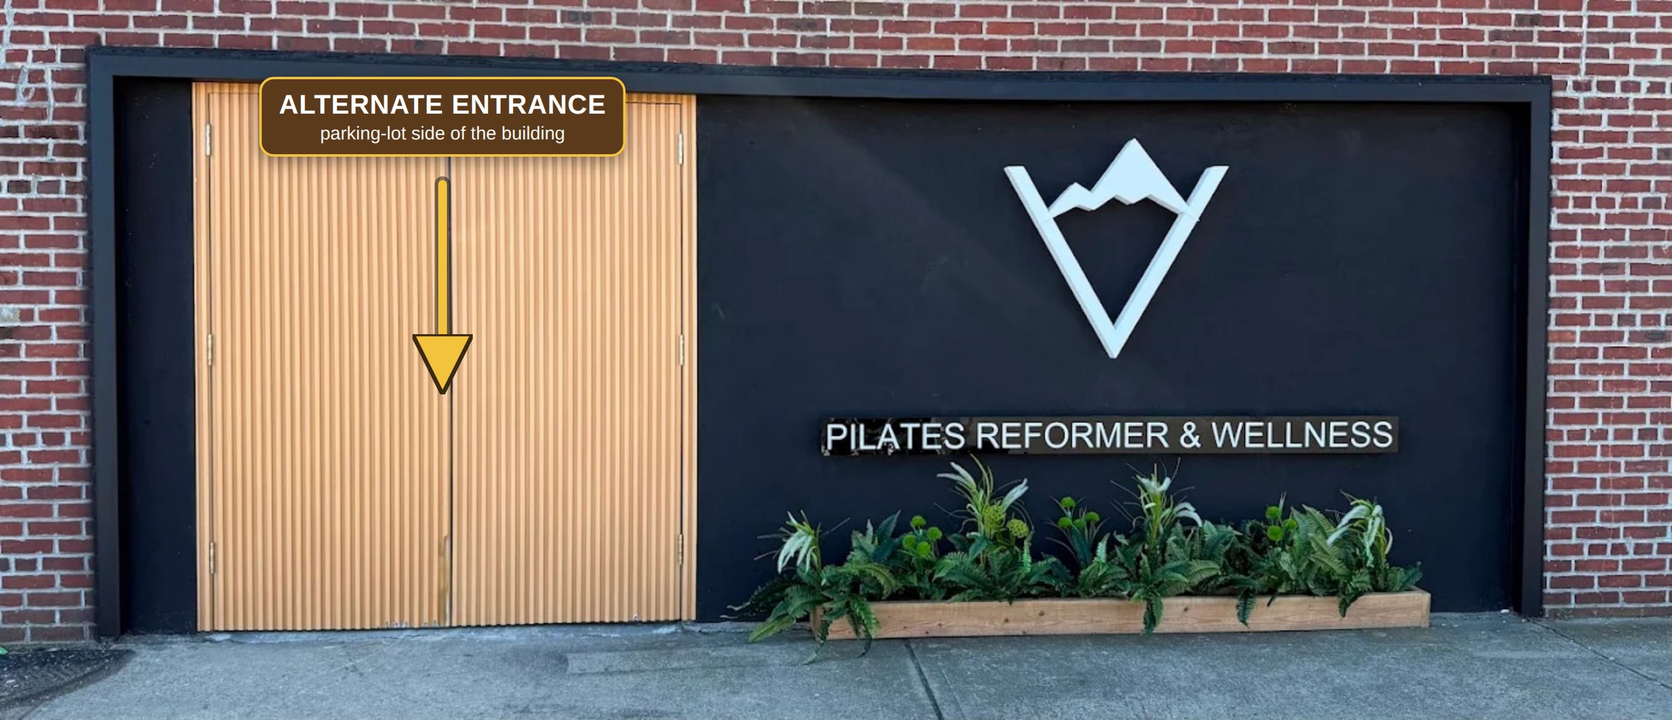
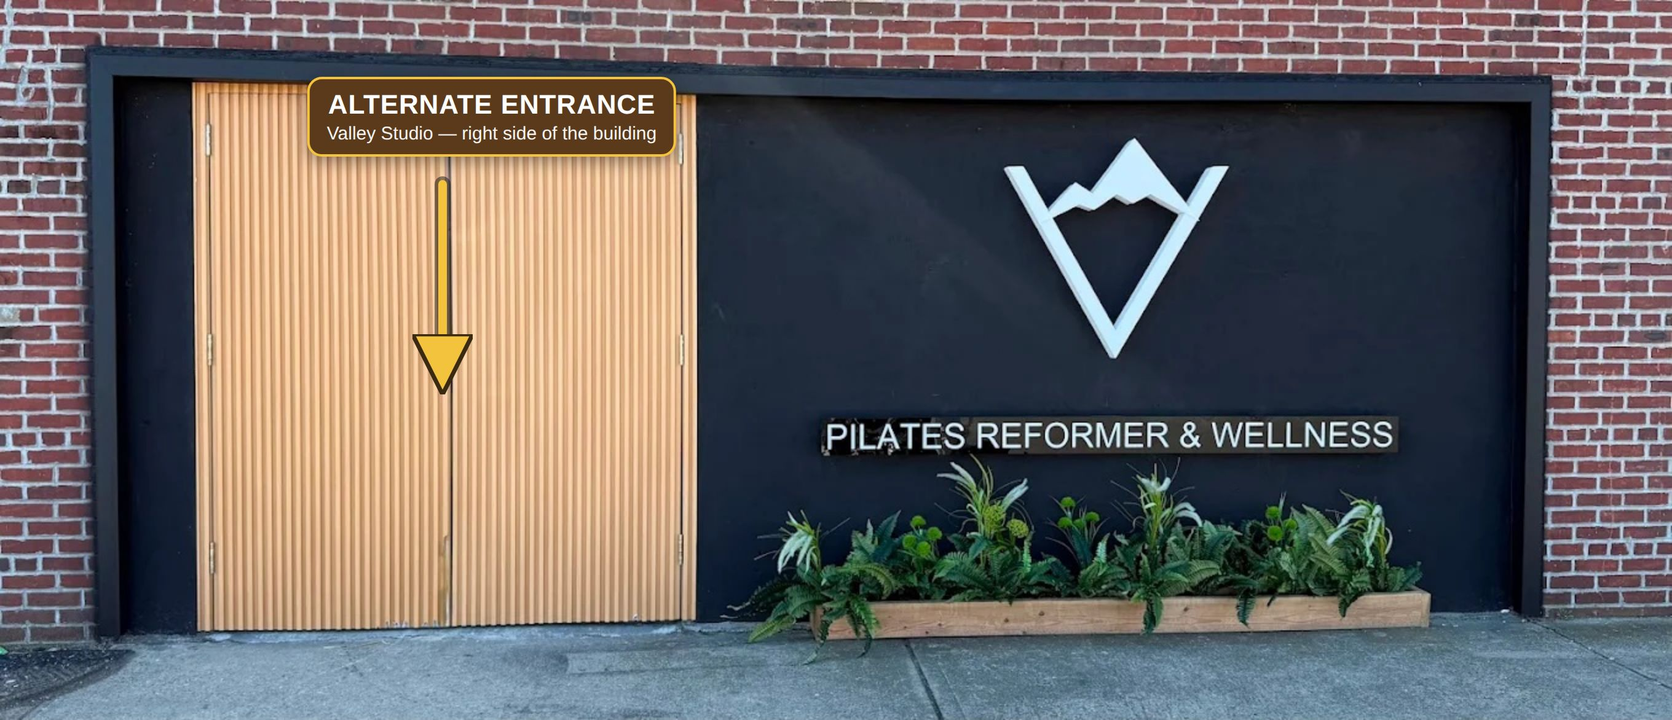
Add roster archive for unpaid signups; fix Valley Studio alt-entrance directions
Archive:
- New "🗄 Archive" button on every reformer roster row moves someone who
  started signing up but never paid off the active roster and out of the
  paid/registered counts, without deleting them.
- New "🗄 Archived — didn't pay" section (all events, collapsed by default)
  with Unarchive and Remove; archived rows are excluded from every event
  section and its counts.
- Backed by REFORMER_ARCHIVE.sql: adds an `archived` column and an owner-only
  reformer_archive(pass, rid, val) RPC, matching the existing reformer_* RPCs.

Directions fixes:
- Alternate entrance is Valley Studio's own entrance on the RIGHT side of the
  building (not the parking-lot side); updated wayfinding-4-alt.jpg label plus
  the on-site slideshow caption and the day-of email caption.
- Added a "before you enter the studio" note (leave shoes outside; bring
  belongings in — cubbies inside) to the on-site directions and the day-of email.

Claude-Session: https://claude.ai/code/session_01C5C3S2hPFNYWpceXrqPaqV

Changed region(s): [[0.125, 0.0922, 0.4062, 0.2457]]

diff --git a/index.html b/index.html
@@ -5986,13 +5986,14 @@ Can't wait to move and connect with you!</textarea>
             <figure class="rf-wf-slide"><img src="wayfinding-1-enter.jpg" alt="Front entrance of Cherry Valley Sports" loading="lazy"><figcaption class="rf-wf-cap"><span>1</span>Enter here &mdash; Cherry Valley Sports front doors</figcaption></figure>
             <figure class="rf-wf-slide"><img src="wayfinding-2-walk.jpg" alt="Turf hallway &mdash; keep walking then make a right" loading="lazy"><figcaption class="rf-wf-cap"><span>2</span>Keep walking down the turf, then make a right &mdash; <em>not</em> through the glass doors</figcaption></figure>
             <figure class="rf-wf-slide"><img src="wayfinding-3-studio.jpg" alt="Main room with Valley Studio at the far end" loading="lazy"><figcaption class="rf-wf-cap"><span>3</span>Valley Studio is the door at the very end (restrooms on your right)</figcaption></figure>
-            <figure class="rf-wf-slide"><img src="wayfinding-4-alt.jpg" alt="Alternate parking-lot entrance" loading="lazy"><figcaption class="rf-wf-cap"><span>4</span>Or use the alternate entrance on the parking-lot side</figcaption></figure>
+            <figure class="rf-wf-slide"><img src="wayfinding-4-alt.jpg" alt="Alternate entrance — Valley Studio, right side of the building" loading="lazy"><figcaption class="rf-wf-cap"><span>4</span>Or use Valley Studio&rsquo;s own entrance &mdash; right side of the building</figcaption></figure>
           </div>
           <button type="button" class="rf-wf-nav rf-wf-prev" aria-label="Previous photo">&#8249;</button>
           <button type="button" class="rf-wf-nav rf-wf-next" aria-label="Next photo">&#8250;</button>
         </div>
         <div class="rf-wf-dots"></div>
       </div>
+      <p style="margin-top:.5rem;">&#129355; <strong>Before you enter the studio:</strong> please leave your shoes outside, and bring all your personal belongings in with you &mdash; there are cubbies inside to store them.</p>
       <p><a class="rf-map" href="https://maps.google.com/?q=45+Cherry+Valley+Ave+West+Hempstead+NY+11552" target="_blank" rel="noopener noreferrer">Open in Google Maps &rarr;</a></p>
       <p style="color:var(--text-muted);">Street parking is available nearby.</p>
     </div>
@@ -6413,13 +6414,14 @@ document.addEventListener('DOMContentLoaded', function(){
             <figure class="rf-wf-slide"><img src="wayfinding-1-enter.jpg" alt="Front entrance of Cherry Valley Sports" loading="lazy"><figcaption class="rf-wf-cap"><span>1</span>Enter here &mdash; Cherry Valley Sports front doors</figcaption></figure>
             <figure class="rf-wf-slide"><img src="wayfinding-2-walk.jpg" alt="Turf hallway &mdash; keep walking then make a right" loading="lazy"><figcaption class="rf-wf-cap"><span>2</span>Keep walking down the turf, then make a right &mdash; <em>not</em> through the glass doors</figcaption></figure>
             <figure class="rf-wf-slide"><img src="wayfinding-3-studio.jpg" alt="Main room with Valley Studio at the far end" loading="lazy"><figcaption class="rf-wf-cap"><span>3</span>Valley Studio is the door at the very end (restrooms on your right)</figcaption></figure>
-            <figure class="rf-wf-slide"><img src="wayfinding-4-alt.jpg" alt="Alternate parking-lot entrance" loading="lazy"><figcaption class="rf-wf-cap"><span>4</span>Or use the alternate entrance on the parking-lot side</figcaption></figure>
+            <figure class="rf-wf-slide"><img src="wayfinding-4-alt.jpg" alt="Alternate entrance — Valley Studio, right side of the building" loading="lazy"><figcaption class="rf-wf-cap"><span>4</span>Or use Valley Studio&rsquo;s own entrance &mdash; right side of the building</figcaption></figure>
           </div>
           <button type="button" class="rf-wf-nav rf-wf-prev" aria-label="Previous photo">&#8249;</button>
           <button type="button" class="rf-wf-nav rf-wf-next" aria-label="Next photo">&#8250;</button>
         </div>
         <div class="rf-wf-dots"></div>
       </div>
+      <p style="margin-top:.5rem;">&#129355; <strong>Before you enter the studio:</strong> please leave your shoes outside, and bring all your personal belongings in with you &mdash; there are cubbies inside to store them.</p>
       <p><a class="rf-map" href="https://maps.google.com/?q=45+Cherry+Valley+Ave+West+Hempstead+NY+11552" target="_blank" rel="noopener noreferrer">Open in Google Maps &rarr;</a></p>
     </div>
 
@@ -6655,13 +6657,14 @@ document.addEventListener('DOMContentLoaded', function(){
             <figure class="rf-wf-slide"><img src="wayfinding-1-enter.jpg" alt="Front entrance of Cherry Valley Sports" loading="lazy"><figcaption class="rf-wf-cap"><span>1</span>Enter here &mdash; Cherry Valley Sports front doors</figcaption></figure>
             <figure class="rf-wf-slide"><img src="wayfinding-2-walk.jpg" alt="Turf hallway &mdash; keep walking then make a right" loading="lazy"><figcaption class="rf-wf-cap"><span>2</span>Keep walking down the turf, then make a right &mdash; <em>not</em> through the glass doors</figcaption></figure>
             <figure class="rf-wf-slide"><img src="wayfinding-3-studio.jpg" alt="Main room with Valley Studio at the far end" loading="lazy"><figcaption class="rf-wf-cap"><span>3</span>Valley Studio is the door at the very end (restrooms on your right)</figcaption></figure>
-            <figure class="rf-wf-slide"><img src="wayfinding-4-alt.jpg" alt="Alternate parking-lot entrance" loading="lazy"><figcaption class="rf-wf-cap"><span>4</span>Or use the alternate entrance on the parking-lot side</figcaption></figure>
+            <figure class="rf-wf-slide"><img src="wayfinding-4-alt.jpg" alt="Alternate entrance — Valley Studio, right side of the building" loading="lazy"><figcaption class="rf-wf-cap"><span>4</span>Or use Valley Studio&rsquo;s own entrance &mdash; right side of the building</figcaption></figure>
           </div>
           <button type="button" class="rf-wf-nav rf-wf-prev" aria-label="Previous photo">&#8249;</button>
           <button type="button" class="rf-wf-nav rf-wf-next" aria-label="Next photo">&#8250;</button>
         </div>
         <div class="rf-wf-dots"></div>
       </div>
+      <p style="margin-top:.5rem;">&#129355; <strong>Before you enter the studio:</strong> please leave your shoes outside, and bring all your personal belongings in with you &mdash; there are cubbies inside to store them.</p>
       <p><a class="rf-map" href="https://maps.google.com/?q=45+Cherry+Valley+Ave+West+Hempstead+NY+11552" target="_blank" rel="noopener noreferrer">Open in Google Maps &rarr;</a></p>
     </div>
 
@@ -6850,13 +6853,14 @@ document.addEventListener('DOMContentLoaded', function(){
             <figure class="rf-wf-slide"><img src="wayfinding-1-enter.jpg" alt="Front entrance of Cherry Valley Sports" loading="lazy"><figcaption class="rf-wf-cap"><span>1</span>Enter here &mdash; Cherry Valley Sports front doors</figcaption></figure>
             <figure class="rf-wf-slide"><img src="wayfinding-2-walk.jpg" alt="Turf hallway &mdash; keep walking then make a right" loading="lazy"><figcaption class="rf-wf-cap"><span>2</span>Keep walking down the turf, then make a right &mdash; <em>not</em> through the glass doors</figcaption></figure>
             <figure class="rf-wf-slide"><img src="wayfinding-3-studio.jpg" alt="Main room with Valley Studio at the far end" loading="lazy"><figcaption class="rf-wf-cap"><span>3</span>Valley Studio is the door at the very end (restrooms on your right)</figcaption></figure>
-            <figure class="rf-wf-slide"><img src="wayfinding-4-alt.jpg" alt="Alternate parking-lot entrance" loading="lazy"><figcaption class="rf-wf-cap"><span>4</span>Or use the alternate entrance on the parking-lot side</figcaption></figure>
+            <figure class="rf-wf-slide"><img src="wayfinding-4-alt.jpg" alt="Alternate entrance — Valley Studio, right side of the building" loading="lazy"><figcaption class="rf-wf-cap"><span>4</span>Or use Valley Studio&rsquo;s own entrance &mdash; right side of the building</figcaption></figure>
           </div>
           <button type="button" class="rf-wf-nav rf-wf-prev" aria-label="Previous photo">&#8249;</button>
           <button type="button" class="rf-wf-nav rf-wf-next" aria-label="Next photo">&#8250;</button>
         </div>
         <div class="rf-wf-dots"></div>
       </div>
+      <p style="margin-top:.5rem;">&#129355; <strong>Before you enter the studio:</strong> please leave your shoes outside, and bring all your personal belongings in with you &mdash; there are cubbies inside to store them.</p>
       <p><a class="rf-map" href="https://maps.google.com/?q=45+Cherry+Valley+Ave+West+Hempstead+NY+11552" target="_blank" rel="noopener noreferrer">Open in Google Maps &rarr;</a></p>
     </div>
 
@@ -9816,6 +9820,7 @@ document.addEventListener('DOMContentLoaded', function() {
     var bloomContainer    = document.createElement('div'); bloomContainer.id    = 'admin-bloom-container';
     var riddimContainer   = document.createElement('div'); riddimContainer.id   = 'admin-riddim-interest-container';
     var bagContainer      = document.createElement('div'); bagContainer.id      = 'admin-bag-reserve-container';
+    var archivedContainer = document.createElement('div'); archivedContainer.id = 'admin-archived-container';
     var corpContainer     = document.createElement('div'); corpContainer.id     = 'admin-corp-container';
     // Tag each event section with its date so the filter can sort past vs upcoming.
     bloomContainer.setAttribute('data-event-date', '2026-12-13');
@@ -9852,6 +9857,7 @@ document.addEventListener('DOMContentLoaded', function() {
     body.appendChild(crContainer);         // Create & Recharge — Aug 15
     body.appendChild(mcContainer);         // Mat & Chat — Aug 1
     body.appendChild(sessionsContainer);   // Pilates x Niara — Jun 19
+    body.appendChild(archivedContainer);   // Archived — didn't pay (all events), always shown
     body.appendChild(corpContainer);       // Partner With Us — no date, always shown
 
     // Apply / persist the event filter (any element tagged with data-event-date —
@@ -9874,6 +9880,7 @@ document.addEventListener('DOMContentLoaded', function() {
     if (typeof renderReformerTbSection === 'function') renderReformerTbSection(turkeyContainer);
     if (typeof renderReformerTb28Section === 'function') renderReformerTb28Section(turkey28Container);
     if (typeof renderReformerHwSection === 'function') renderReformerHwSection(halloweenContainer);
+    if (typeof renderReformerArchivedSection === 'function') renderReformerArchivedSection(archivedContainer);
     if (typeof renderBloomingSection === 'function') renderBloomingSection(bloomContainer);
     if (typeof renderRiddimInterestSection === 'function') renderRiddimInterestSection(riddimContainer);
     if (typeof renderBagReserveSection === 'function') renderBagReserveSection(bagContainer);
@@ -12851,7 +12858,7 @@ document.addEventListener('DOMContentLoaded', function() {
     return '';
   }
   window.markFoundingSent = function(email,ev,sess){ _foundingSent[foundingKey(email,ev,sess)] = true; try { localStorage.setItem('auric_founding_sent', JSON.stringify(_foundingSent)); } catch(e){} if(typeof rfRefresh==='function') rfRefresh(); };
-  function rfRefresh(){ if(rfAdminContainer) renderReformerSection(rfAdminContainer); if(rfBkAdminContainer) renderReformerBkSection(rfBkAdminContainer); if(rfTbAdminContainer) renderReformerTbSection(rfTbAdminContainer); if(rfTb28AdminContainer) renderReformerTb28Section(rfTb28AdminContainer); if(rfHwAdminContainer) renderReformerHwSection(rfHwAdminContainer); populateReturningGuests(); }
+  function rfRefresh(){ if(rfAdminContainer) renderReformerSection(rfAdminContainer); if(rfBkAdminContainer) renderReformerBkSection(rfBkAdminContainer); if(rfTbAdminContainer) renderReformerTbSection(rfTbAdminContainer); if(rfTb28AdminContainer) renderReformerTb28Section(rfTb28AdminContainer); if(rfHwAdminContainer) renderReformerHwSection(rfHwAdminContainer); if(rfArchivedContainer) renderReformerArchivedSection(rfArchivedContainer); populateReturningGuests(); }
 
   // Fill the "Returning guest" picker in Manual Add with everyone who has
   // attended a reformer class (deduped by email). Picking one auto-fills the
@@ -12972,7 +12979,7 @@ document.addEventListener('DOMContentLoaded', function() {
       rfRosterById = {};
       rows.forEach(function(r){ rfRosterById[r.id] = r; }); // keep ALL rows addressable (Valley + Brooklyn share admin actions)
       var display = rows.filter(function(r){ return r.event !== 'riddim-kompa-brooklyn-2026-09-26' && r.event !== 'turkey-burn-2026-11-21'; }); // Valley section: exclude Brooklyn + Turkey Burn
-      display = display.filter(function(r){ return r.type!=='waitlist'; }); // waitlisters shown separately, never counted as registered
+      display = display.filter(function(r){ return r.type!=='waitlist' && !r.archived; }); // waitlisters + archived (didn't pay) shown separately, never counted as registered
       var paid  = display.filter(function(r){ return r.is_paid; }).length;
       var paid1 = display.filter(function(r){ return r.session==='1pm' && r.is_paid; }).length;
       var paid2 = display.filter(function(r){ return r.session==='2pm' && r.is_paid; }).length;
@@ -13013,10 +13020,11 @@ document.addEventListener('DOMContentLoaded', function() {
         var timeBtn = timeOpt('1pm','1 PM') + timeOpt('2pm','2 PM') + timeOpt('3pm','3 PM');
         var editBtn = btn('rfAdminEdit('+id+')','#eef4fb','#b5d4f4','#185fa5','✏\u{FE0F} Edit');
         var removeBtn = btn('rfAdminRemove('+id+')','#fdecea','#f5c6c2','var(--red)','\u{1F5D1} Remove');
+        var archiveBtn = btn('rfAdminArchive('+id+')','#eceae4','#d3ccbd','#6b6357','\u{1F5C4}\u{FE0F} Archive');
         var moveBtn = btn('rfAdminMove('+id+')','#f0ecf9','#c9bce9','#5b3a8a','\u{21C4} Move event');
         item.innerHTML='<div style="flex:1;min-width:0;"><span class="aname">'+escapeHTML(rec.name||'')+'</span> '+badge+fbBadge(rec)+'<br><span class="aemail">'+escapeHTML(rec.email||'')+'</span>'+ref+sig+health+'</div>'+
           '<div style="text-align:right"><span style="font-size:.75rem;color:var(--text-muted);">'+escapeHTML(rec.session_label||rec.session||'')+'</span><br><span style="font-size:.7rem;color:var(--text-muted);">'+escapeHTML(when)+'</span>'+
-          '<br><div style="display:flex;gap:.3rem;justify-content:flex-end;margin-top:.3rem;flex-wrap:wrap;">'+confirmBtn+paidBtn+timeBtn+waiverBtn+clearHealthBtn+(rec.is_paid?'':btn('rfSendPayReminder('+id+')','#fff4e5','#f0c890','#a86617','⏳ Reminder'))+editBtn+moveBtn+removeBtn+'</div></div>';
+          '<br><div style="display:flex;gap:.3rem;justify-content:flex-end;margin-top:.3rem;flex-wrap:wrap;">'+confirmBtn+paidBtn+timeBtn+waiverBtn+clearHealthBtn+(rec.is_paid?'':btn('rfSendPayReminder('+id+')','#fff4e5','#f0c890','#a86617','⏳ Reminder'))+editBtn+moveBtn+archiveBtn+removeBtn+'</div></div>';
         (typeof _curSessBlock!=='undefined'&&_curSessBlock?_curSessBlock:block).appendChild(item);
       });
     }
@@ -13040,7 +13048,7 @@ document.addEventListener('DOMContentLoaded', function() {
     function render(rows, err){
       rows.forEach(function(r){ rfRosterById[r.id] = r; });
       var display = rows.filter(function(r){ return r.event === 'riddim-kompa-brooklyn-2026-09-26'; });
-      display = display.filter(function(r){ return r.type!=='waitlist'; }); // waitlisters shown separately, never counted as registered
+      display = display.filter(function(r){ return r.type!=='waitlist' && !r.archived; }); // waitlisters + archived (didn't pay) shown separately, never counted as registered
       var CAP = 5, pd = { 'bk12':0,'bk1':0,'bk2':0 };
       display.forEach(function(r){ if(r.is_paid && pd[r.session]!==undefined) pd[r.session]++; });
       var paid = display.filter(function(r){ return r.is_paid; }).length;
@@ -13077,10 +13085,11 @@ document.addEventListener('DOMContentLoaded', function() {
         var confirmBtn = btn('rfBkAdminConfirm('+id+')','#e8f5e9','#a5d6a7','#2e7d32','\u{1F4E7} Confirm + email');
         var editBtn = btn('rfAdminEdit('+id+')','#eef4fb','#b5d4f4','#185fa5','✏\u{FE0F} Edit');
         var removeBtn = btn('rfAdminRemove('+id+')','#fdecea','#f5c6c2','var(--red)','\u{1F5D1} Remove');
+        var archiveBtn = btn('rfAdminArchive('+id+')','#eceae4','#d3ccbd','#6b6357','\u{1F5C4}\u{FE0F} Archive');
         var moveBtn = btn('rfAdminMove('+id+')','#f0ecf9','#c9bce9','#5b3a8a','\u{21C4} Move event');
         item.innerHTML='<div style="flex:1;min-width:0;"><span class="aname">'+escapeHTML(rec.name||'')+'</span> '+badge+fbBadge(rec)+'<br><span class="aemail">'+escapeHTML(rec.email||'')+'</span>'+ref+sig+health+'</div>'+
           '<div style="text-align:right"><span style="font-size:.75rem;color:var(--text-muted);">'+escapeHTML(SLAB[rec.session]||rec.session_label||rec.session||'')+'</span><br><span style="font-size:.7rem;color:var(--text-muted);">'+escapeHTML(when)+'</span>'+
-          '<br><div style="display:flex;gap:.3rem;justify-content:flex-end;margin-top:.3rem;flex-wrap:wrap;">'+confirmBtn+paidBtn+timeBtn+waiverBtn+clearHealthBtn+(rec.is_paid?'':btn('rfSendPayReminder('+id+')','#fff4e5','#f0c890','#a86617','⏳ Reminder'))+editBtn+moveBtn+removeBtn+'</div></div>';
+          '<br><div style="display:flex;gap:.3rem;justify-content:flex-end;margin-top:.3rem;flex-wrap:wrap;">'+confirmBtn+paidBtn+timeBtn+waiverBtn+clearHealthBtn+(rec.is_paid?'':btn('rfSendPayReminder('+id+')','#fff4e5','#f0c890','#a86617','⏳ Reminder'))+editBtn+moveBtn+archiveBtn+removeBtn+'</div></div>';
         (typeof _curSessBlock!=='undefined'&&_curSessBlock?_curSessBlock:block).appendChild(item);
       });
     }
@@ -13104,7 +13113,7 @@ document.addEventListener('DOMContentLoaded', function() {
     function btn(onclick,bg,bd,fg,label){ return '<button onclick="'+onclick+'" style="background:'+bg+';border:1px solid '+bd+';color:'+fg+';border-radius:6px;padding:.2rem .5rem;font-size:.72rem;cursor:pointer;font-family:\'Jost\',sans-serif;">'+label+'</button>'; }
     function render(rows, err){
       rows.forEach(function(r){ rfRosterById[r.id] = r; });
-      var display = rows.filter(function(r){ return r.event === 'turkey-burn-2026-11-28' && r.type!=='waitlist'; });
+      var display = rows.filter(function(r){ return r.event === 'turkey-burn-2026-11-28' && r.type!=='waitlist' && !r.archived; });
       var paid = display.filter(function(r){ return r.is_paid; }).length;
       block.innerHTML = '<h3 style="color:var(--gold-text);">\u{1F983} Post-Turkey Burn · Nov 28th · '+paid+' paid / '+display.length+' registered <span style="font-weight:400;text-transform:none;letter-spacing:0;">(12:30 PM)</span></h3>';
       if(err){ block.innerHTML += '<div class="empty-state">Roster unavailable — run the reformer_roster SQL to enable it. (Bookings still work.)</div>'; return; }
@@ -13126,9 +13135,10 @@ document.addEventListener('DOMContentLoaded', function() {
         var waiverBtn = rec.signature ? btn('rfAdminWaiver('+id+')','#eef4fb','#b5d4f4','#185fa5','\u{1F4C4} Waiver') : '';
         var clearHealthBtn = rec.health ? btn('rfAdminClearHealth('+id+')','#fef4e5','#f0c890','#a86617','\u{1FA79} Clear health') : '';
         var removeBtn = btn('rfAdminRemove('+id+')','#fdecea','#f5c6c2','var(--red)','\u{1F5D1} Remove');
+        var archiveBtn = btn('rfAdminArchive('+id+')','#eceae4','#d3ccbd','#6b6357','\u{1F5C4}\u{FE0F} Archive');
         item.innerHTML='<div style="flex:1;min-width:0;"><span class="aname">'+escapeHTML(rec.name||'')+'</span> '+badge+'<br><span class="aemail">'+escapeHTML(rec.email||'')+'</span>'+ref+sig+health+'</div>'+
           '<div style="text-align:right"><span style="font-size:.75rem;color:var(--text-muted);">12:30 PM</span><br><span style="font-size:.7rem;color:var(--text-muted);">'+escapeHTML(when)+'</span>'+
-          '<br><div style="display:flex;gap:.3rem;justify-content:flex-end;margin-top:.3rem;flex-wrap:wrap;">'+paidBtn+waiverBtn+clearHealthBtn+removeBtn+'</div></div>';
+          '<br><div style="display:flex;gap:.3rem;justify-content:flex-end;margin-top:.3rem;flex-wrap:wrap;">'+paidBtn+waiverBtn+clearHealthBtn+archiveBtn+removeBtn+'</div></div>';
         block.appendChild(item);
       });
     }
@@ -13150,7 +13160,7 @@ document.addEventListener('DOMContentLoaded', function() {
     function render(rows, err){
       rows.forEach(function(r){ rfRosterById[r.id] = r; });
       var display = rows.filter(function(r){ return r.event === 'turkey-burn-2026-11-21'; });
-      display = display.filter(function(r){ return r.type!=='waitlist'; }); // waitlisters shown separately, never counted as registered
+      display = display.filter(function(r){ return r.type!=='waitlist' && !r.archived; }); // waitlisters + archived (didn't pay) shown separately, never counted as registered
       var CAP = 6, pd = { 'tb1230':0,'tb130':0 };
       display.forEach(function(r){ if(r.is_paid && pd[r.session]!==undefined) pd[r.session]++; });
       var paid = display.filter(function(r){ return r.is_paid; }).length;
@@ -13185,10 +13195,11 @@ document.addEventListener('DOMContentLoaded', function() {
         var confirmBtn = btn('rfTbAdminConfirm('+id+')','#fdeeea','#f2b8ab','#a8391f','\u{1F4E7} Confirm + email');
         var editBtn = btn('rfAdminEdit('+id+')','#eef4fb','#b5d4f4','#185fa5','✏\u{FE0F} Edit');
         var removeBtn = btn('rfAdminRemove('+id+')','#fdecea','#f5c6c2','var(--red)','\u{1F5D1} Remove');
+        var archiveBtn = btn('rfAdminArchive('+id+')','#eceae4','#d3ccbd','#6b6357','\u{1F5C4}\u{FE0F} Archive');
         var moveBtn = btn('rfAdminMove('+id+')','#f0ecf9','#c9bce9','#5b3a8a','\u{21C4} Move event');
         item.innerHTML='<div style="flex:1;min-width:0;"><span class="aname">'+escapeHTML(rec.name||'')+'</span> '+badge+fbBadge(rec)+'<br><span class="aemail">'+escapeHTML(rec.email||'')+'</span>'+ref+sig+health+'</div>'+
           '<div style="text-align:right"><span style="font-size:.75rem;color:var(--text-muted);">'+escapeHTML(SLAB[rec.session]||rec.session_label||rec.session||'')+'</span><br><span style="font-size:.7rem;color:var(--text-muted);">'+escapeHTML(when)+'</span>'+
-          '<br><div style="display:flex;gap:.3rem;justify-content:flex-end;margin-top:.3rem;flex-wrap:wrap;">'+confirmBtn+paidBtn+timeBtn+waiverBtn+clearHealthBtn+(rec.is_paid?'':btn('rfSendPayReminder('+id+')','#fff4e5','#f0c890','#a86617','⏳ Reminder'))+editBtn+moveBtn+removeBtn+'</div></div>';
+          '<br><div style="display:flex;gap:.3rem;justify-content:flex-end;margin-top:.3rem;flex-wrap:wrap;">'+confirmBtn+paidBtn+timeBtn+waiverBtn+clearHealthBtn+(rec.is_paid?'':btn('rfSendPayReminder('+id+')','#fff4e5','#f0c890','#a86617','⏳ Reminder'))+editBtn+moveBtn+archiveBtn+removeBtn+'</div></div>';
         (typeof _curSessBlock!=='undefined'&&_curSessBlock?_curSessBlock:block).appendChild(item);
       });
     }
@@ -13211,7 +13222,7 @@ document.addEventListener('DOMContentLoaded', function() {
     function render(rows, err){
       rows.forEach(function(r){ rfRosterById[r.id] = r; });
       var display = rows.filter(function(r){ return r.event === 'halloween-creek-2026-10-24'; });
-      display = display.filter(function(r){ return r.type!=='waitlist'; }); // waitlisters shown separately, never counted as registered
+      display = display.filter(function(r){ return r.type!=='waitlist' && !r.archived; }); // waitlisters + archived (didn't pay) shown separately, never counted as registered
       var CAP = 6, pd = { 'hw1230':0,'hw130':0 };
       display.forEach(function(r){ if(r.is_paid && pd[r.session]!==undefined) pd[r.session]++; });
       var paid = display.filter(function(r){ return r.is_paid; }).length;
@@ -13246,10 +13257,11 @@ document.addEventListener('DOMContentLoaded', function() {
         var confirmBtn = btn('rfHwAdminConfirm('+id+')','#f3ecff','#cbb6f0','#5b3a8a','\u{1F383} Confirm + email');
         var editBtn = btn('rfAdminEdit('+id+')','#eef4fb','#b5d4f4','#185fa5','✏\u{FE0F} Edit');
         var removeBtn = btn('rfAdminRemove('+id+')','#fdecea','#f5c6c2','var(--red)','\u{1F5D1} Remove');
+        var archiveBtn = btn('rfAdminArchive('+id+')','#eceae4','#d3ccbd','#6b6357','\u{1F5C4}\u{FE0F} Archive');
         var moveBtn = btn('rfAdminMove('+id+')','#f0ecf9','#c9bce9','#5b3a8a','\u{21C4} Move event');
         item.innerHTML='<div style="flex:1;min-width:0;"><span class="aname">'+escapeHTML(rec.name||'')+'</span> '+badge+fbBadge(rec)+'<br><span class="aemail">'+escapeHTML(rec.email||'')+'</span>'+ref+sig+health+'</div>'+
           '<div style="text-align:right"><span style="font-size:.75rem;color:var(--text-muted);">'+escapeHTML(SLAB[rec.session]||rec.session_label||rec.session||'')+'</span><br><span style="font-size:.7rem;color:var(--text-muted);">'+escapeHTML(when)+'</span>'+
-          '<br><div style="display:flex;gap:.3rem;justify-content:flex-end;margin-top:.3rem;flex-wrap:wrap;">'+paidBtn+timeBtn+confirmBtn+waiverBtn+clearHealthBtn+(rec.is_paid?'':btn('rfSendPayReminder('+id+')','#fff4e5','#f0c890','#a86617','⏳ Reminder'))+editBtn+moveBtn+removeBtn+'</div></div>';
+          '<br><div style="display:flex;gap:.3rem;justify-content:flex-end;margin-top:.3rem;flex-wrap:wrap;">'+paidBtn+timeBtn+confirmBtn+waiverBtn+clearHealthBtn+(rec.is_paid?'':btn('rfSendPayReminder('+id+')','#fff4e5','#f0c890','#a86617','⏳ Reminder'))+editBtn+moveBtn+archiveBtn+removeBtn+'</div></div>';
         (typeof _curSessBlock!=='undefined'&&_curSessBlock?_curSessBlock:block).appendChild(item);
       });
     }
@@ -13262,6 +13274,51 @@ document.addEventListener('DOMContentLoaded', function() {
     } catch(e){ render([], true); }
   }
 
+  // ─── Archived reformer registrations (started signing up, didn't pay) ───
+  var rfArchivedContainer = null;
+  var RF_EVENT_LABELS = {
+    'riddim-kompa-reformer-2026-09-13':'Riddim & Kompa — Valley · Sep 13',
+    'riddim-kompa-brooklyn-2026-09-26':'Riddim & Kompa — Brooklyn · Sep 26',
+    'halloween-creek-2026-10-24':'Shhh… Quiet on the Creek · Oct 24',
+    'turkey-burn-2026-11-21':'Turkey Burn! · Nov 21',
+    'turkey-burn-2026-11-28':'Post-Turkey Burn · Nov 28'
+  };
+  function renderReformerArchivedSection(container){
+    if(!container) return;
+    rfArchivedContainer = container;
+    var _prevBlk = container.querySelector('.admin-session-block'); // preserve collapse state
+    var block = document.createElement('div'); block.className='admin-session-block' + ((_prevBlk ? _prevBlk.classList.contains('collapsed') : true)?' collapsed':''); // collapsed by default
+    function btn(onclick,bg,bd,fg,label){ return '<button onclick="'+onclick+'" style="background:'+bg+';border:1px solid '+bd+';color:'+fg+';border-radius:6px;padding:.2rem .5rem;font-size:.72rem;cursor:pointer;font-family:\'Jost\',sans-serif;">'+label+'</button>'; }
+    function render(rows, err){
+      rows.forEach(function(r){ rfRosterById[r.id] = r; }); // keep addressable for unarchive/remove
+      var display = rows.filter(function(r){ return r.archived; });
+      block.innerHTML = '<h3 style="color:var(--gold-text);">\u{1F5C4}\u{FE0F} Archived — didn’t pay · '+display.length+'</h3>';
+      if(err){ block.innerHTML += '<div class="empty-state">Archive unavailable — run REFORMER_ARCHIVE.sql in Supabase to enable it. (Everything else still works.)</div>'; return; }
+      if(!display.length){ block.innerHTML += '<div class="empty-state">Nothing archived. Use the \u{1F5C4}\u{FE0F} Archive button on any registration to move it here (kept off the roster + counts, never deleted).</div>'; return; }
+      display.sort(function(a,b){ return (a.event||'').localeCompare(b.event||'') || (a.created_at||'').localeCompare(b.created_at||''); });
+      display.forEach(function(rec){
+        var id = rec.id;
+        var item=document.createElement('div'); item.className='admin-sub-item';
+        var evLabel = RF_EVENT_LABELS[rec.event] || rec.event || '';
+        var evBadge = evLabel ? ' <span class="atype" style="background:#f0efe9;color:#6b6357;">'+escapeHTML(evLabel)+'</span>' : '';
+        var sessLabel = rec.session_label || rec.session || '';
+        var when = ''; try { when = rec.created_at ? new Date(rec.created_at).toLocaleString() : ''; } catch(e){}
+        var unarchiveBtn = btn('rfAdminUnarchive('+id+')','#e8f5e9','#a5d6a7','#2e7d32','\u{21A9}\u{FE0F} Unarchive');
+        var removeBtn = btn('rfAdminRemove('+id+')','#fdecea','#f5c6c2','var(--red)','\u{1F5D1} Remove');
+        item.innerHTML='<div style="flex:1;min-width:0;"><span class="aname">'+escapeHTML(rec.name||'')+'</span>'+evBadge+'<br><span class="aemail">'+escapeHTML(rec.email||'')+'</span></div>'+
+          '<div style="text-align:right"><span style="font-size:.75rem;color:var(--text-muted);">'+escapeHTML(sessLabel)+'</span><br><span style="font-size:.7rem;color:var(--text-muted);">'+escapeHTML(when)+'</span>'+
+          '<br><div style="display:flex;gap:.3rem;justify-content:flex-end;margin-top:.3rem;flex-wrap:wrap;">'+unarchiveBtn+removeBtn+'</div></div>';
+        block.appendChild(item);
+      });
+    }
+    container.innerHTML=''; container.appendChild(block);
+    try {
+      supabase.rpc('reformer_roster', { pass: ADMIN_PASSWORD }).then(function(res){
+        if(res && res.error){ render([], true); return; }
+        render((res && res.data) || [], false);
+      }, function(){ render([], true); });
+    } catch(e){ render([], true); }
+  }
   // ─── Something's Blooming — interest list roster ───────────────────────
   var bloomRows = [];
   function renderBloomingSection(container){
@@ -13436,6 +13493,22 @@ document.addEventListener('DOMContentLoaded', function() {
     supabase.rpc('reformer_remove', { pass: ADMIN_PASSWORD, rid: id })
       .then(function(res){ if(res&&res.error){ alert('Could not remove — run the reformer admin SQL first.'); return; } rfRefresh(); },
             function(){ alert('Could not remove. Try again.'); });
+  };
+  // Archive / unarchive — move someone who started signing up but didn't pay
+  // off the active roster (and out of the counts) without deleting them. They
+  // land in the "🗄 Archived — didn't pay" section and can be brought back.
+  window.rfAdminArchive = function(id){
+    var rec = rfRosterById[id]; if(!rec){ return; }
+    if(!confirm('Archive '+(rec.name||'this registration')+'?\n\nThey’ll move to the Archived list and drop off the roster and counts. Nothing is deleted — you can unarchive them anytime.')) return;
+    supabase.rpc('reformer_archive', { pass: ADMIN_PASSWORD, rid: id, val: true })
+      .then(function(res){ if(res&&res.error){ alert('Could not archive — run the reformer_archive SQL (REFORMER_ARCHIVE.sql) in Supabase first.'); return; } rfRefresh(); },
+            function(){ alert('Could not archive. Try again.'); });
+  };
+  window.rfAdminUnarchive = function(id){
+    var rec = rfRosterById[id];
+    supabase.rpc('reformer_archive', { pass: ADMIN_PASSWORD, rid: id, val: false })
+      .then(function(res){ if(res&&res.error){ alert('Could not unarchive — run the reformer_archive SQL (REFORMER_ARCHIVE.sql) first.'); return; } rfRefresh(); },
+            function(){ alert('Could not unarchive. Try again.'); });
   };
   window.rfAdminSetSession = function(id, newSession){
     var rec = rfRosterById[id]; if(!rec){ return; }

diff --git a/EMAIL_DAY_IS_HERE_RIDDIM.html b/EMAIL_DAY_IS_HERE_RIDDIM.html
@@ -125,8 +125,24 @@
         <!-- Step 4 -->
         <tr>
           <td style="padding:18px 42px 4px;">
-            <p style="font-family:'Helvetica Neue',Arial,sans-serif;font-size:13px;color:#5A3A1A;font-weight:bold;margin:0 0 8px 0;"><span style="display:inline-block;background-color:#a9853f;color:#ffffff;border-radius:999px;padding:2px 9px;font-size:12px;margin-right:8px;">&#9733;</span> Or use the alternate entrance on the parking-lot side</p>
-            <img src="https://book.auricmovement.com/wayfinding-4-alt.jpg" alt="Alternate entrance — wood sliding doors on the parking-lot side" width="516" style="display:block;width:100%;max-width:516px;height:auto;border:1px solid #e6d8c2;border-radius:10px;outline:none;">
+            <p style="font-family:'Helvetica Neue',Arial,sans-serif;font-size:13px;color:#5A3A1A;font-weight:bold;margin:0 0 8px 0;"><span style="display:inline-block;background-color:#a9853f;color:#ffffff;border-radius:999px;padding:2px 9px;font-size:12px;margin-right:8px;">&#9733;</span> Or use Valley Studio&rsquo;s own entrance &mdash; right side of the building</p>
+            <img src="https://book.auricmovement.com/wayfinding-4-alt.jpg" alt="Alternate entrance — Valley Studio, right side of the building" width="516" style="display:block;width:100%;max-width:516px;height:auto;border:1px solid #e6d8c2;border-radius:10px;outline:none;">
+          </td>
+        </tr>
+
+        <!-- Before you enter the studio -->
+        <tr>
+          <td style="padding:22px 42px 4px;">
+            <table role="presentation" width="100%" cellpadding="0" cellspacing="0" border="0" style="background-color:#faf5ee;border-left:3px solid #c79a54;border-radius:0 8px 8px 0;">
+              <tr>
+                <td style="padding:16px 22px;">
+                  <div style="font-family:'Helvetica Neue',Arial,sans-serif;font-size:10px;color:#9a6535;letter-spacing:2px;text-transform:uppercase;font-weight:bold;margin-bottom:8px;">&#129355; Before you enter the studio</div>
+                  <p style="font-family:Georgia,serif;font-size:14px;color:#3d322a;line-height:1.7;margin:0;">
+                    Please <strong>leave your shoes outside</strong> the studio, and <strong>bring all your personal belongings in with you</strong> &mdash; there are cubbies inside to store everything.
+                  </p>
+                </td>
+              </tr>
+            </table>
           </td>
         </tr>
 
